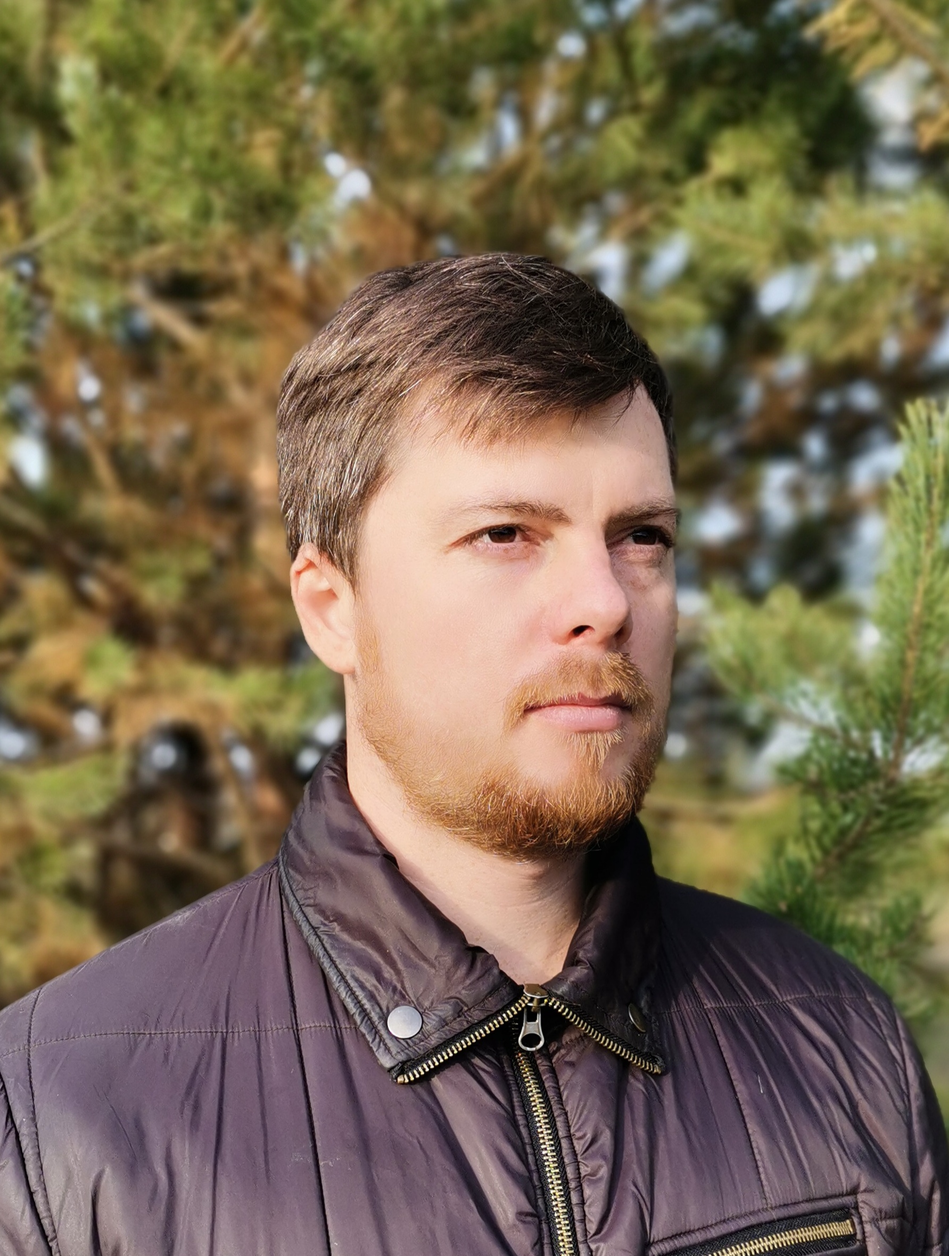
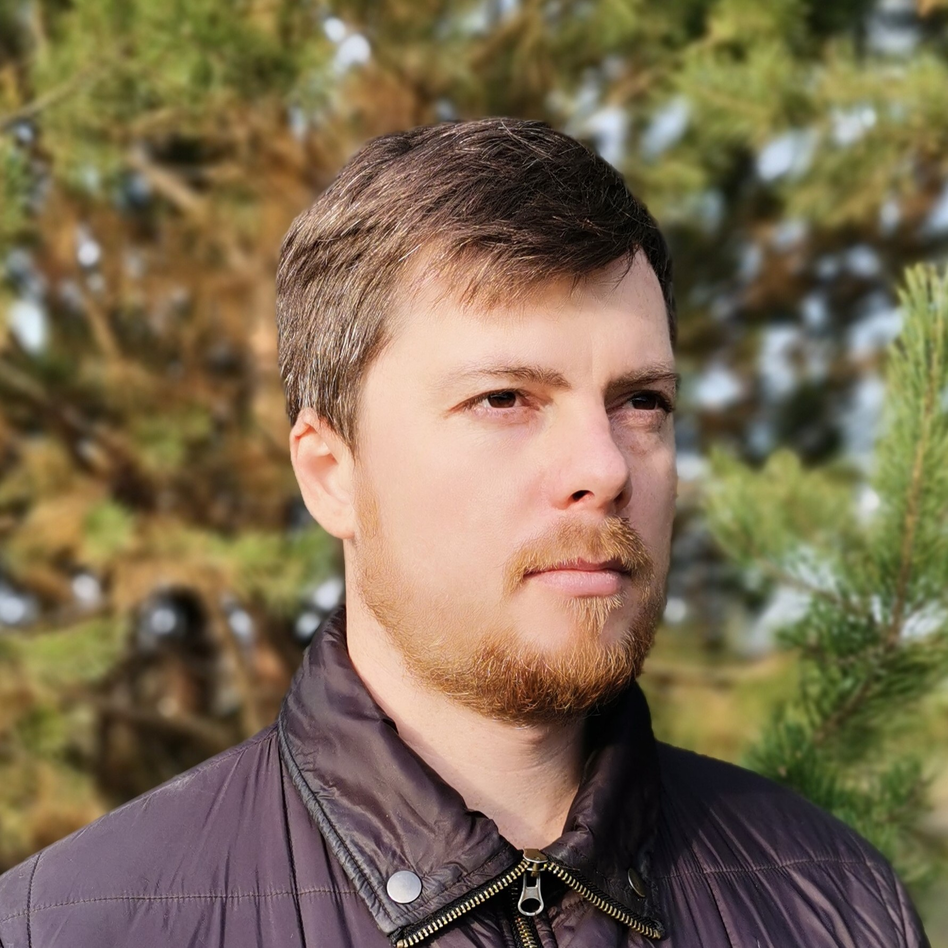
fix: update index, style and photo files

diff --git a/index.html b/index.html
@@ -21,23 +21,25 @@
                     <li class="nav-item"><a href="#language" class="nav-link">Language</a></li>                  
                     <li class="nav-item"><a href="#summary" class="nav-link">Summary</a></li>
                     <li class="nav-item"><a href="#skills" class="nav-link">Skills</a></li>
-                    <li class="nav-item"><a href="#code" class="nav-link">Code</a></li>
-                    <li class="nav-item"><a href="#projects" class="nav-link">Projects</a></li>              
+                    <li class="nav-item"><a href="#code" class="nav-link">Code</a></li>            
                 </ul>
             </nav>
         </div>
     </header>
-    <main class="main-container">
-            <div>
-            <section class="section">
-                <h1 class="section-title">Alexander Denisov</h1>
+    <main class="main">
+        <div class="container main-container">
+            <section class="section section-profile">
+                <img src="assets/Photo.jpg" alt="My Photo" class="section-profile-photo">
+                <div class="section-profile-title">
+                    <h1 class="section-title profile-title">Alexander Denisov</h1>
+                </div>
             </section>
             <section class="section" id="contacts">
                 <h2 class="section-title">Contacts</h2>
                 <ui>
-                    <li>**Location:** Kazan city, Tatarstan  Republic, Russia</li>
-                    <li>**Phone:** +7(843) 526-73-10</li>
-                    <li>**E-mail:** alexden@npk-va.com</li>
+                    <li>Location: Kazan city, Tatarstan  Republic, Russia</li>
+                    <li>Phone: +7(843) 526-73-10</li>
+                    <li>E-mail: alexden@npk-va.com</li>
                 </ui>
             </section>
             <section class="section" id="skills">
@@ -45,41 +47,33 @@
                 <ui>
                     <li>Systems of industrial automatization and control</li>
                     <li>Team management</li>
-                    <li>DCS</li>
-                    <li>Honeywell</li>
-                    <li>Siemens</li>
-                    <li>Emerson</li>
-                    <li>Simatic PCS 7</li>
-                    <li>Experion PKS</li>
-                    <li>Modbus</li>
-                    <li>Profibus</li>
-                    <li>C/C++</li>
-                    <li>Matlab</li>
-                    <li>VBS</li>
-                    <li>SCL</li>
-                    <li>LAD</li>
-                    <li>TIA Portal</li>
-                    <li>WinCC</li>
-                    <li>WinCC OA</li>
-                    <li>SCADA</li>
-                    <li>HTML5</li>
-                    <li>CSS3</li>
-                    <li>VS Code</li>
-                    <li>Git</li>
-                    <li>JavaScript Basic</li>
+                    <li>DCS, Honeywell, Siemens, Emerson</li>
+                    <li>Experion PKS, Simatic PCS 7, DeltaV</li>
+                    <li>C/C++, Matlab, VB, SCL, LAD, FBD</li>
+                    <li>TIA Portal, WinCC, WinCC OA</li>
+                    <li>HTML5, CSS3, VS Code, Git, JavaScript</li>
                 </ui>
             </section>
             <section class="section" id="education">
                 <h2 class="section-title">Education</h2>
+                <p>
+                    Kazan Federal University
+                </p>
             </section>
             <section class="section" id="courses">
                 <h2 class="section-title">Courses</h2>
+                <ui>
+                    <li>EXP-50R500RU Experion PKS: Fundamentals - Configuration, Graphics Builder and Control Strategy Implementation</li>
+                    <li>7009 DeltaV Implementation I</li>
+                </ui>
             </section>
             <section class="section" id="language">
                 <h2 class="section-title">Language</h2>
+                <ui>
+                    <li>Russian - native speaker</li>
+                    <li>English - A1</li>
+                </ui>
             </section>
-        </div>
-        <div>
             <section class="section" id="summary">
                 <h2 class="section-title">Summary</h2>
                 <p>
@@ -90,47 +84,47 @@
                 <p>
                     Currently, the trend in the development of production technologies is directed 
                     towards remote control and monitoring of technological processes. This control 
-                    can be achieved through the use of **WEB-technologies**, the most common worldwide 
-                    among ordinary users. Therefore, my main goal is to gain knowledge in the field of **front-end** development.
+                    can be achieved through the use of WEB-technologies, the most common worldwide 
+                    among ordinary users. Therefore, my main goal is to gain knowledge in the field of front-end development.
                 </p>
             </section>
             <section class="section" id="code">
                 <h2 class="section-title">Code</h2>
-                <p>
-                    for (COUNT = 1; COUNT <= ITER; COUNT++)
-                    {
-                        Qm_old = Qm;
-                        Re_old = Re;
-                        // expiration coefficient in the first approximation
-                        A_ist = powf(19000.0*Betta / Re, 0.8);																				
-                        C = 0.5961 + 0.0261*powf(Betta, 2.0) - 0.216*powf(Betta, 8.0) + 
-                        0.000521*powf(1.0e6*Betta/Re, 0.7) + 
-                        (0.0188 + 0.0063*A_ist)*powf(Betta, 3.5)*powf(1.0e6/Re, 0.3) + 
-                        (0.043 + 0.08*exp(-10.0*L1) - 0.123*exp(-7.0*L1))*(1.0 - 0.11*A_ist)*powf(Betta, 4)/( 1.0 - powf(Betta, 4.0))-
-                        0.031*(M1-0.8*powf(M1, 1.1))*powf(Betta, 1.3) + M2;												
-                        // roughness coefficient
-                        lgRe = log10(Re);
-                        // mass flow rate kg/s
-                        Qm = (0.25*Pi*powf(dm, 2.0))*Ksh*Kp*E*C*eps*powf(2.0*RO*DPress, 0.5);		
-                        Re = (4.0/Pi)*(Qm /(DT*MU));
-                        delta = fabs((Qm-Qm_old)/Qm);
+                <pre class="code-title">
+                    <code>
+for (COUNT = 1; COUNT <= ITER; COUNT++)
+{
+    Qm_old = Qm;
+    Re_old = Re;
+    // expiration coefficient in the first approximation
+    A_ist = powf(19000.0*Betta / Re, 0.8);																	
+    C = 0.5961 + 0.0261*powf(Betta, 2.0) - 0.216*powf(Betta, 8.0) +
+    0.000521*powf(1.0e6*Betta/Re, 0.7) +
+    (0.0188 + 0.0063*A_ist)*powf(Betta, 3.5)*powf(1.0e6/Re, 0.3) +
+    (0.043 + 0.08*exp(-10.0*L1) - 0.123*exp(-7.0*L1))*(1.0 - 0.11*A_ist)*
+    powf(Betta, 4)/( 1.0 - powf(Betta, 4.0))-
+    0.031*(M1-0.8*powf(M1, 1.1))*powf(Betta, 1.3) + M2;									
+    // roughness coefficient
+    lgRe = log10(Re);
+    // mass flow rate kg/s
+    Qm = (0.25*Pi*powf(dm, 2.0))*Ksh*Kp*E*C*eps*powf(2.0*RO*DPress, 0.5);	
+    Re = (4.0/Pi)*(Qm /(DT*MU));
+    delta = fabs((Qm-Qm_old)/Qm);
                     
-                        if (delta < 0.000001)
-                        {
-                            break;
-                        }
-                    }
-                </p>
-            </section>
-            <section class="section" id="projects">
-                <h2 class="section-title">Projects</h2>
+    if (delta < 0.000001)
+    {
+        break;
+    }
+}
+                    </code>
+                </pre>
             </section>
         </div>
-    <!-- <img src="assets/Photo.jpg" alt="My Photo"> -->
     </main>
-    <footer class="footer">
-        <div class="container">
-            footer!!!
+    <footer >
+        <div class="container footer-container">
+            <div>2022 <a href="https://github.com/alexdenvit86" class="nav-link">alexdenvit86</a></div>
+            <a href="https://rs.school" class="nav-link">rs-school</a>
         </div>
     </footer>    
 </body>

diff --git a/style.css b/style.css
@@ -8,12 +8,12 @@ body {
     display: flex;
     flex-direction: column;
     justify-content: space-between;
-    background-color: white;
+    background-color: #fff;
     font-family: 'Mukta', sans-serif; 
-    font-size: 18px;
+    font-size: 20px;
     font-weight: 400;
     line-height: 1.5;
-    color: #4d2323;
+    color: #1c1815;
     min-height: 100vh;
     margin: 0;
     padding: 0;
@@ -21,28 +21,38 @@ body {
 .container {
     max-width: 1440px;
     margin: 0 auto;
-    border: 1px solid gray;
 }
 .header {
-    border: 0;
+    margin: 0;
 }
+.main {
+    margin-bottom: auto;
+  }
 .main-container {
     display: flex;
     flex-wrap: wrap;
-    max-width: 1440px;
-    margin: 0 auto;
+    justify-content: space-between;
 }
 .footer {
-    border: 0;
+    margin: 0;
+}
+.footer-container{
+    display: flex;
+    justify-content: space-between;
+    align-items: center;
+    color: #fff;
+    background-color:#8c9150;
+    line-height: 50px;
 }
 .nav {
-    border: 0;
+    background-color:#8c9150;
 }
 .nav-list {
     display: flex;
     justify-content: flex-end;
     align-items: center;
     list-style: none;
+    margin: 0;
 }
 .nav-item {
     border: 0;
@@ -52,20 +62,50 @@ body {
     line-height: 50px;
     text-decoration: none;
     transition: color 0.5s;
-    color: #829985;
+    color: #fff;
 }
 .nav-link:hover {
-    color: #5d7260;
+    color: #3b2821;
 }
 .section {
-    width: 50%;
+    width: 48%;
+    border-bottom: 1px solid #3b2821;
 }
 .section-title {
-    font-size: 20px;
+    font-size: 30px;
     font-weight: 400;
     letter-spacing: 5px;
-    color: #829985;
+    color: #cb5136;
 }
+.section-profile {
+    display: flex;
+    justify-content: space-around;
+    width: 100%;
+    padding: 50px 50px ;
+    border-bottom: 10px solid #3b2821;
+  }
+.section-profile-photo{
+    width: 250px;
+    height: 250px;
+    object-fit: cover;
+    border-radius: 50%;
+}
+.section-profile-title {
+    display: flex;
+    flex-direction: column;
+    justify-content: center;
+    align-content: center;
+    text-transform: uppercase;
+    text-align: center;  
+  }
+.profile-title{
+    font-size: 40px;
+    color: #cb5136;
+  }
+.code-title {
+    padding: 0;
+    margin: 0;
+  }
 @media (max-width: 768px) {
     .section {
         width: 100%;
